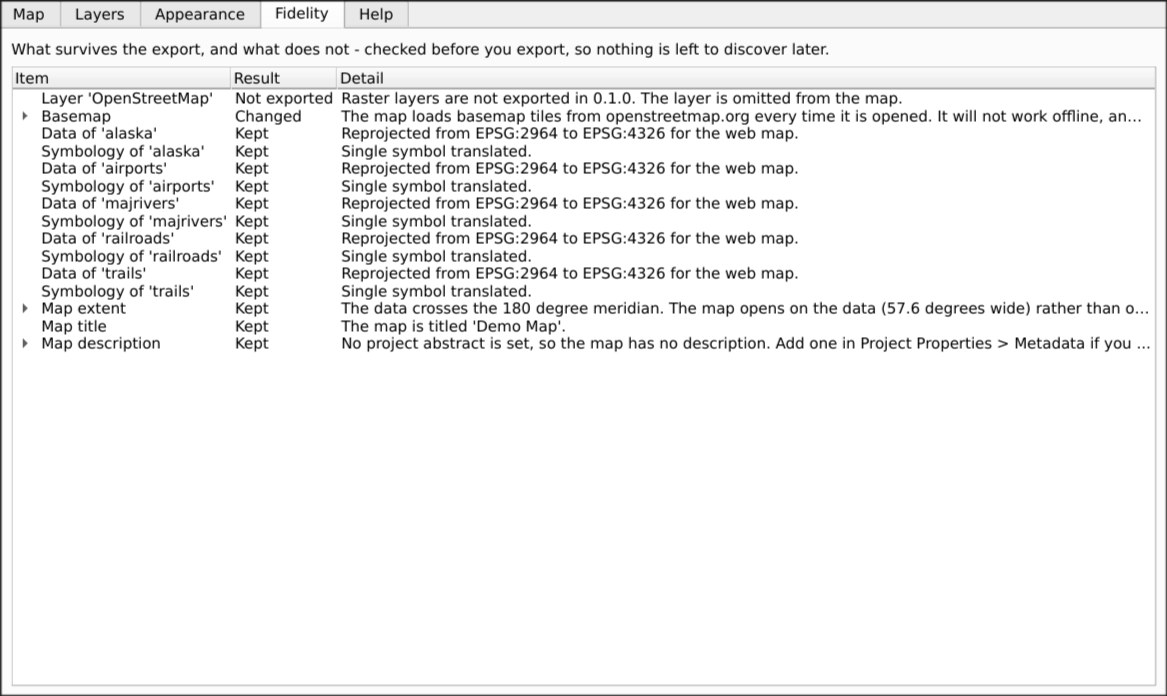
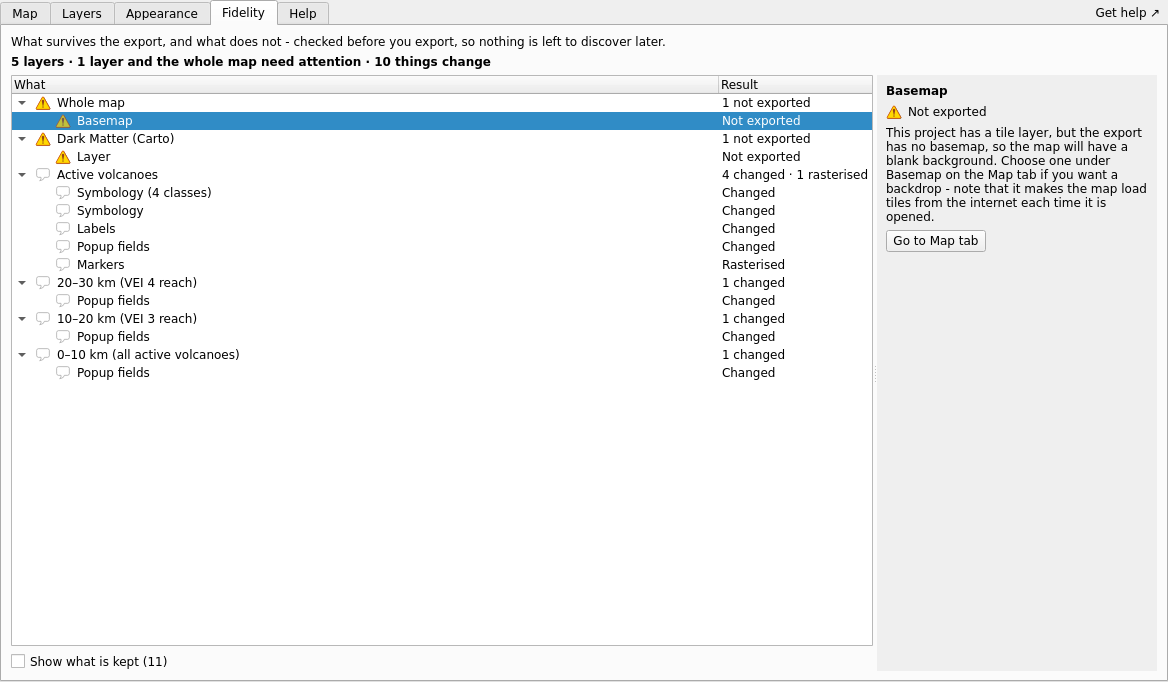
Document the regrouped Fidelity tab and the export warning

Changed region(s): [[0.0, 0.0, 1.0, 1.0]]

diff --git a/docs/the-dialog.md b/docs/the-dialog.md
@@ -235,20 +235,43 @@ The reason this plugin exists. It answers one question — *what does my recipie
 not get?* — **before** you export, not after.
 
 The report builds when you open the tab, reading every feature of every layer, so
-it takes a moment on a large project and shows a progress bar while it does. It
-rebuilds when the project changes.
+it takes a moment on a large project and shows a progress bar while it does.
+Preview, Export and Host read the project too, and refresh the report as they go.
 
-Three columns: the item, its verdict, and the detail. Long details open onto
-their own row when clicked. Problems are sorted to the top, because a report
-opening on a wall of *Kept* buries what matters.
+One line at the top sums it up — `5 layers · 1 needs attention · 10 things
+change`. A layer *needs attention* when something about it is Blocked or Not
+exported. Below that the report is grouped, problems first:
+
+- **Whole map** — settings that belong to no one layer: the basemap, relief,
+  where the map opens, its title.
+- **One group per layer**, the layers that lose something before the layers that
+  are only changed. A layer that comes through exactly is a single `✓ exact`
+  line.
+- Rows saying the same thing about several classes of one layer are merged into
+  one, with the number of classes.
+
+Select a row to read all of it in the pane beside the list. Where the fix is in
+this dialog, the pane has a button that goes there: **Show in Layers** for a
+layer, **Go to Map tab** for the basemap and the other map settings.
+
+**Kept** rows are hidden so the changes stand out. **Show what is kept** brings
+them back — nothing is left out of the report, only folded away.
+
+When something changes after a check — a layer ticked or unticked, the map
+renamed, a layer added in QGIS — the report is marked **Out of date** rather than
+going on looking current. **Check again** refreshes it. Restyling a layer in
+QGIS is the one change it cannot see; check again after one.
 
 | Verdict | Meaning |
 |---|---|
-| **Blocked** | The export must not proceed. Export stays disabled while this is present |
+| **Blocked** | Cannot be carried into the map at all — usually a layer QGIS could not load. Export still works, but asks first and names what will be missing |
 | **Not exported** | Cannot be represented, and was left out. The map is still produced |
 | **Changed** | Exported, but approximated — the detail says how |
-| **Rasterised** | Drawn as an image because the style has no live equivalent |
+| **Rasterised** | Drawn into the map as an image: markers QGIS draws itself, or a raster's colours baked into its pixels. It looks as it does in QGIS, but it is a picture now |
 | **Kept** | Survives exactly as set in QGIS |
+
+If the check itself fails, the tab says so and why. That is not a verdict: it
+says nothing about your map, only that the check did not finish.
 
 Worth reading before you send a map on, and **essential before you host one**:
 this tab is what names every layer over the free plan's
@@ -267,13 +290,19 @@ offline. **Open the full documentation** opens this site in your browser.
 
 Between the tabs and the buttons, always visible, whichever tab you are on:
 
-- `3 things change on export.` — or
-- `1 layer cannot be exported.` — or
+- `Not checked yet.` — before the first check. **Check now** runs one.
+- `1 layer needs attention · 10 things change on export.` — **See what
+  changes** opens the Fidelity tab.
+- `1 layer cannot be exported · 10 things change on export.` — when something is
+  Blocked. **Review problems** opens the Fidelity tab.
+- `Out of date - something changed since the last check.` — **Check again**
+  refreshes it without leaving the tab you are on.
 - nothing at all.
 
-**Nothing at all is the good case.** A permanent "0 things change" trains people
-to stop reading it, so a clean export says nothing and the absence is the
-message. **What changes?** jumps to the Fidelity tab.
+**Nothing at all is the good case**, and it only appears after a check. A
+permanent "0 things change" trains people to stop reading it, so a clean export
+says nothing and the absence is the message. Anything worth reading is printed
+at full strength with QGIS's own warning or error icon beside it.
 
 ---
 
@@ -301,14 +330,19 @@ ever opens a browser.**
 
 ### Export
 
-Writes the real artifact. Greyed out when the export cannot be produced
-correctly, with the reason beside it rather than a silent refusal:
+Writes the real artifact. Greyed out only when there is nothing to export, with
+the reason beside it rather than a silent refusal:
 
 | The reason says | Fix |
 |---|---|
-| *Add a vector layer to the project to export.* | The project has no exportable layer |
+| *Add a vector or raster layer to the project to export.* | The project has no exportable layer |
 | *Tick at least one layer to include.* | Everything is unticked on the Layers tab |
-| A blocked item | Open the Fidelity tab; it names the layer and why |
+
+**A Blocked item does not grey it out.** Pressing Export with one names each
+Blocked item and asks: **Export anyway**, **Review on the Fidelity tab**, or
+Cancel. Host asks the same before anything is uploaded. A layer QGIS could not
+load should not stop you sharing the nine that loaded — but it should never go
+missing without you being told which one.
 
 ### Open exported map
 

diff --git a/CHANGELOG.md b/CHANGELOG.md
@@ -16,7 +16,42 @@ All notable changes to QGIS2WebMap by NIKA. Format follows
   levels at the edges. Until now the range was dropped with a note, on a claim
   that the runtime had nowhere to put it; it has had one since 0.6.22.
 
+### Changed
+- **The Fidelity tab is grouped by layer, problems first.** One line sums it
+  up - `5 layers · 1 needs attention · 10 things change` - then a "Whole map"
+  group and one group per layer, the layers that lose something first. A layer
+  that comes through exactly is one `✓ exact` line, rows repeating the same
+  sentence for several classes are merged into one, and Kept rows fold behind
+  **Show what is kept**. Selecting a row shows the whole of it in a pane beside
+  the list - the old table cut details off at 110 characters - with a button to
+  where the fix is: **Show in Layers**, or **Go to Map tab**.
+- **A Blocked item no longer stops the export.** Export and Host name each
+  Blocked item and ask: go on without it, review it on the Fidelity tab, or
+  cancel. One layer QGIS could not load used to stop the other nine being
+  shared. A map with no layer at all is still refused, and the Processing
+  algorithm still refuses a Blocked item, because a batch run has nobody to ask.
+- **Markers QGIS draws into the map, and raster colours baked into the
+  pixels, are reported as Rasterised** rather than Kept. They look as they do in
+  QGIS, but they arrive as pictures. The verdict was documented and never used.
+
 ### Fixed
+- **The fidelity report went on looking current after the settings changed.**
+  Ticking Include, Popup or Label, or renaming the map, never marked it stale.
+  The report and the strip under every tab now say **Out of date** the moment it
+  stops describing the map, with **Check again**. Before the first check the
+  strip says so, where it used to say nothing - which read as "nothing changes".
+- **The strip counted what it did not say.** "2 layers cannot be exported"
+  counted report entries, so two problems with one layer read as two layers. It
+  now counts what it names, and a problem is printed at full strength with
+  QGIS's warning or error icon rather than in the dimmest colour available.
+- **A broken layer is named.** "1 layer(s) could not be loaded" left the user to
+  find which; the row now names the layer and sits in its group. A broken layer
+  you have unticked is no longer reported at all.
+- **A crash while checking was shown as a Blocked verdict** on the map. It is
+  now shown as what it is: the check did not finish, and why.
+- Report copy: "0.1.0" in three messages, "(unknown)" after a graduated layer's
+  class count, a Kept "Map description" row that read as a loss, and "Add a
+  vector layer" now that rasters export.
 - **Labelling a 3D polygon layer aborted the whole export.** A polygon layer
   whose geometry carries Z — digitised with Z switched on, draped over a DEM,
   or imported from CityGML, IFC or a `PolygonZ` GeoPackage — exports every

diff --git a/docs/ui-design.md b/docs/ui-design.md
@@ -22,8 +22,10 @@ This file records what we do differently and why, so the reasoning survives.
    it did not.
 3. **State is visible.** No control whose current value cannot be read from the
    control itself.
-4. **Never offer an export we know is broken.** Export is disabled with a stated
-   reason rather than producing a bad artifact.
+4. **Never offer an export we know is broken without saying so.** Export is
+   disabled with a stated reason when there is nothing to export. When part of
+   the map cannot be carried - a layer QGIS could not load - Export names it and
+   asks before writing, rather than refusing the rest of the map.
 
 ## Tabs
 
@@ -32,7 +34,7 @@ This file records what we do differently and why, so the reasoning survives.
 | **Map** | Map name, description, output tier, size readout, Export |
 | **Layers** | One list, per-layer settings inline, popup fields in a non-reflowing expander |
 | **Appearance** | Widgets — on by default, live toggles |
-| **Fidelity** | Populated *before* export: suppressed settings, licence-cap violations, approximated symbology |
+| **Fidelity** | Populated *before* export: suppressed settings, licence-cap violations, approximated symbology. Grouped by layer, problems first, Kept folded away; marks itself out of date when the settings change |
 | **Help** | About, privacy statement, documentation links |
 
 ## Map name
@@ -109,6 +111,10 @@ it while the user configures makes the tier choice self-explanatory.
 
 ## Export button
 
-Disabled when the export cannot be produced correctly, with the reason shown next
-to it — over a licence cap, a required asset missing, no exportable layers. This
-is [`docs/architecture.md`](architecture.md) non-negotiable 5 surfaced in the UI.
+Disabled only when there is nothing to export - no exportable layer, or every
+layer unticked - with the reason shown next to it. Everything else that can go
+wrong is said at the moment it costs something: a Blocked item on the Fidelity
+tab is named in a warning before the write, with the choice to go on; a required
+asset the writer cannot carry refuses the write with its own reason; a licence
+cap is a Changed row, because it only bites once the map is served. This is
+[`docs/architecture.md`](architecture.md) non-negotiable 5 surfaced in the UI.

diff --git a/docs/troubleshooting.md b/docs/troubleshooting.md
@@ -33,9 +33,9 @@ faq:
   - q: Why is the Export button greyed out?
     a: >-
       The reason is printed beside the button. Either the project has no vector
-      layer to export, or every layer is unticked in the Include column on the
-      Layers tab, or the Fidelity tab has a Blocked item naming the layer and
-      the reason.
+      or raster layer to export, or every layer is unticked in the Include
+      column on the Layers tab. A Blocked item on the Fidelity tab does not
+      grey it out - Export names it and asks before writing.
   - q: Why is my exported map blank, or showing a message about JavaScript?
     a: >-
       You are opening it somewhere that does not run JavaScript - an email
@@ -149,13 +149,15 @@ on.
 
 ### Export is greyed out
 
-The reason is printed beside the button. The three you will meet:
+The reason is printed beside the button. The two you will meet:
 
 | The reason says | What to do |
 |---|---|
-| *Add a vector layer to the project to export.* | The project has no vector layer. Raster-only projects have nothing to export |
+| *Add a vector or raster layer to the project to export.* | The project has no layer that can be exported |
 | *Tick at least one layer to include.* | Everything is unticked in the **Include** column on the Layers tab |
-| Something else | Open the **Fidelity** tab. A **Blocked** item names the layer and the reason |
+
+A **Blocked** item on the Fidelity tab is not one of them: Export stays
+available, and names the item and asks before it writes anything.
 
 ### Extruded polygons export flat
 

diff --git a/docs/first-export.md b/docs/first-export.md
@@ -153,10 +153,11 @@ would send to someone - so you can check it before sharing.
 
 Before sending the map on, look at **Fidelity**. It lists everything that
 changed on the way out of QGIS - symbology that could not be translated exactly,
-settings that will not appear, layers that were left out. Nothing is dropped
-silently.
+settings that will not appear, layers that were left out - grouped by layer, with
+the problems first. Select a row to read all of it. Nothing is dropped silently:
+what comes through exactly is folded under **Show what is kept**.
 
-![The Fidelity tab with the Not exported and Changed verdicts highlighted.](images/export-06-fidelity-report.png)
+![The Fidelity tab grouped by layer, with a Not exported row selected and its full detail beside the list.](images/export-06-fidelity-report.png)
 
 That report before the export, rather than a surprise after it, is the main
 difference from [qgis2web](qgis2web-comparison.md) if you are choosing between

diff --git a/docs/index.md b/docs/index.md
@@ -68,8 +68,8 @@ verdicts:
     - key: Rasterised
       tone: changed
       text: >-
-        It comes out as a picture instead of a live layer, because the web has
-        no equivalent for that style.
+        It comes out as a picture drawn by QGIS - it looks right, but it can
+        no longer be restyled.
     - key: Not exported
       tone: blocked
       text: >-
@@ -78,8 +78,8 @@ verdicts:
     - key: Blocked
       tone: blocked
       text: >-
-        Exporting would produce a broken map, so the Export button stays off
-        until it is fixed.
+        It cannot be carried at all - usually a layer QGIS could not load.
+        Export asks before going on without it, and names it.
 
 sections:
   - title: Start here

diff --git a/docs/supported-features.md b/docs/supported-features.md
@@ -5,7 +5,7 @@ description: >-
   Layers, symbology, labels, popups, height, terrain and attribution - what is preserved, what is approximated, and what is not exported.
 lead_image:
   src: /images/dialog-fidelity-tab.png
-  alt: The Fidelity tab listing each layer with a verdict of Kept, Changed or Not exported.
+  alt: The Fidelity tab, grouped by layer with the problems first and the full detail of the selected row beside the list.
 ---
 
 # What gets exported
